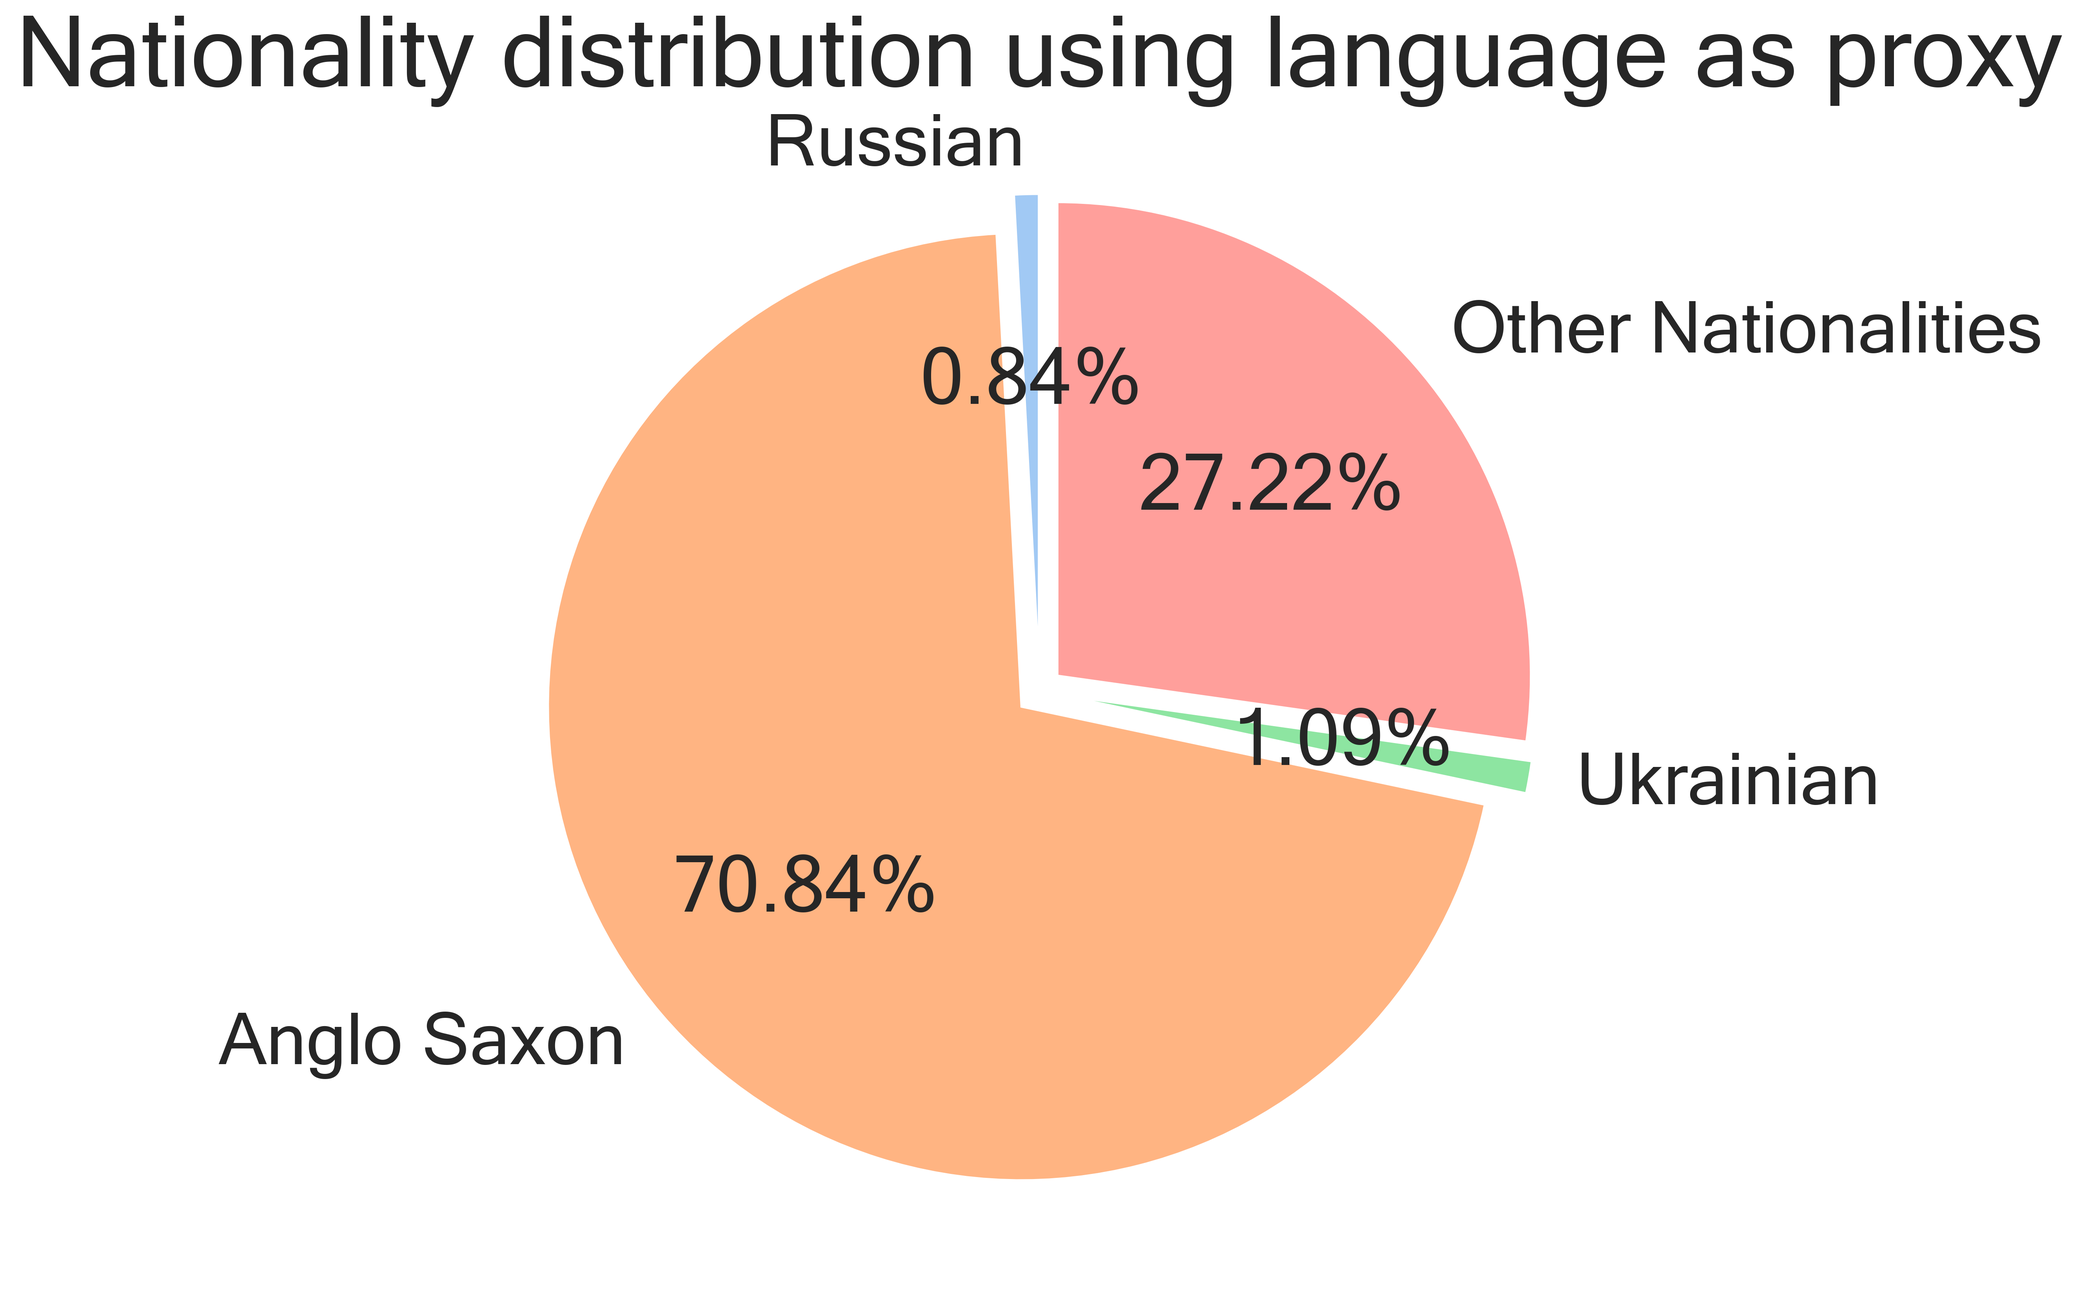
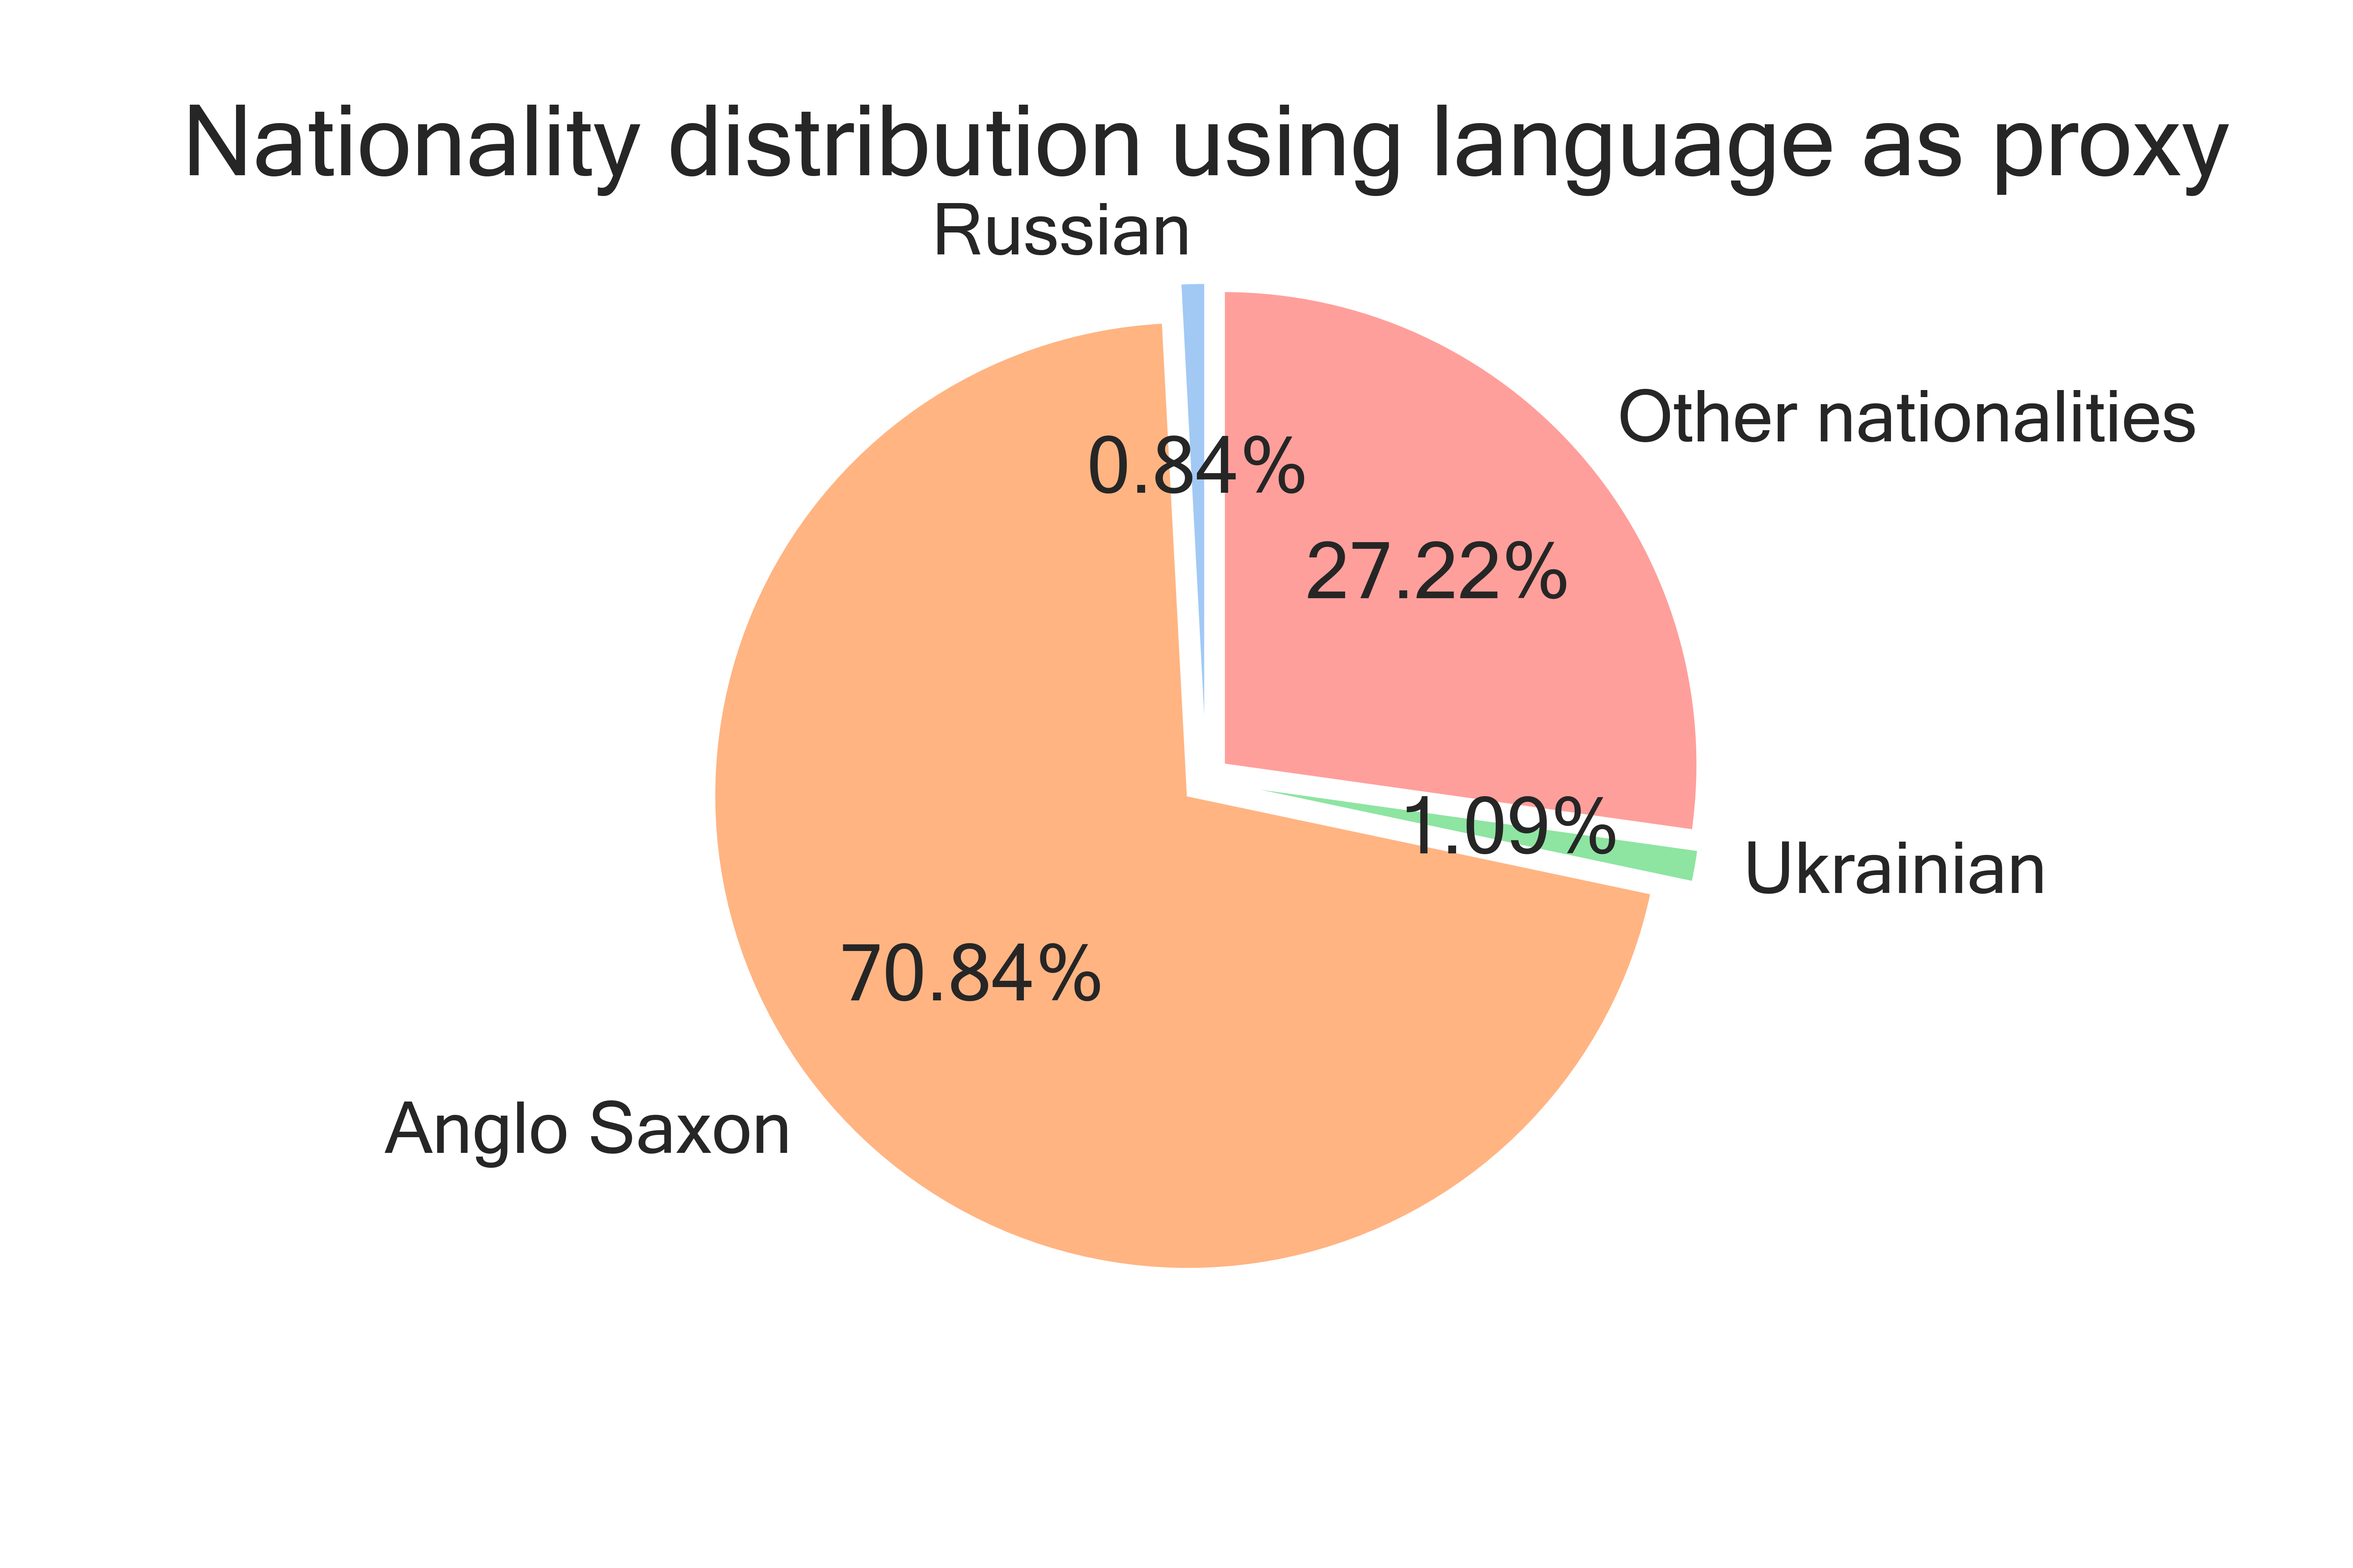
plots

Changed region(s): [[0.0, 0.0, 0.9957, 0.9327], [0.6223, 0.2176, 0.6534, 0.2487]]

diff --git a/setup_plot.py b/setup_plot.py
@@ -7,9 +7,13 @@ import seaborn as sns
 def setup_plot():
     mpl.rcParams['lines.linewidth'] = 1
     mpl.rcParams['font.family'] = 'Microsoft Sans Serif'
-    mpl.rcParams['axes.titleweight'] = 'bold'
     
-    sns.set_theme(style="white", palette='pastel', font = 'Microsoft Sans Serif', font_scale=3)
+    #these don't work for some reason
+    #mpl.rcParams['axes.titleweight'] = 'bold'
+    #mpl.rcParams['axes.titlesize'] = '90'
+    
+    
+    sns.set_theme(style="white", palette='pastel', font = 'Microsoft Sans Serif', font_scale=2)
     myFmt = mdates.DateFormatter('%b #Y')
     
     print("Plot settings applied")
